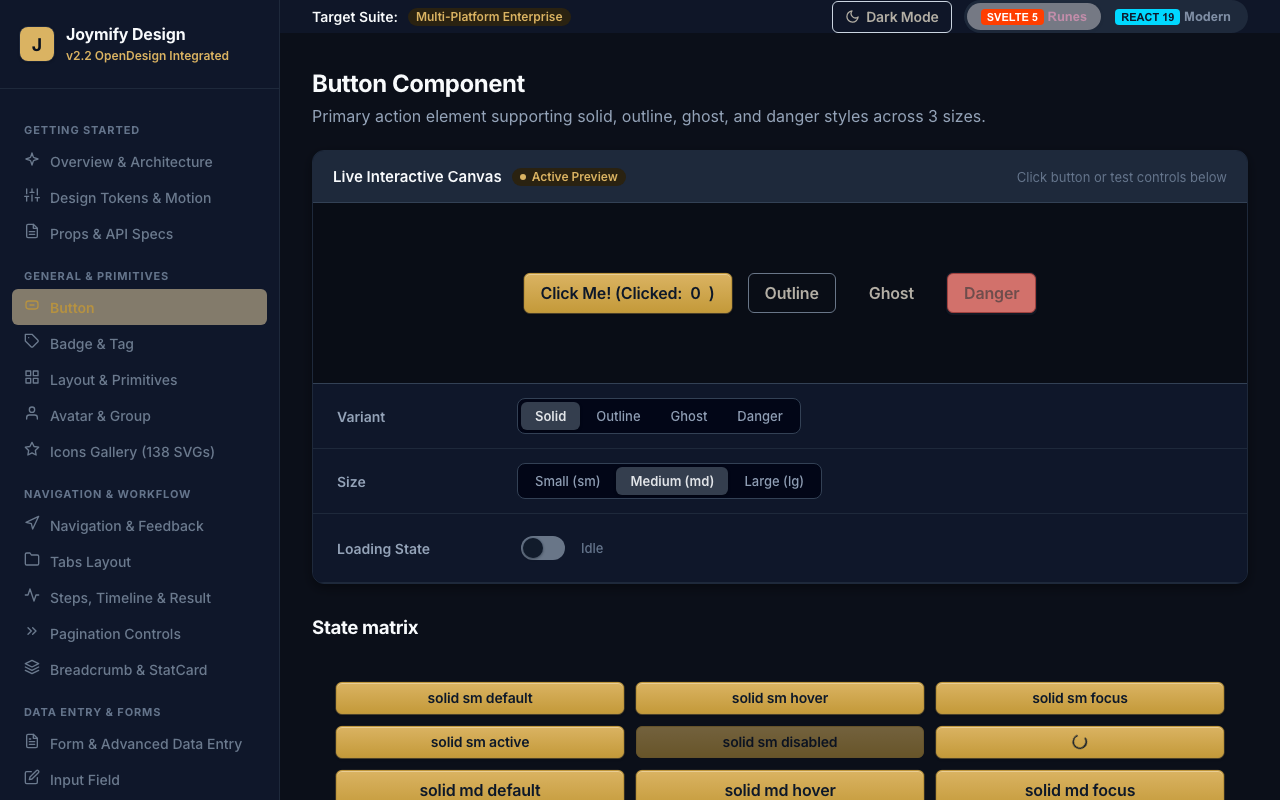
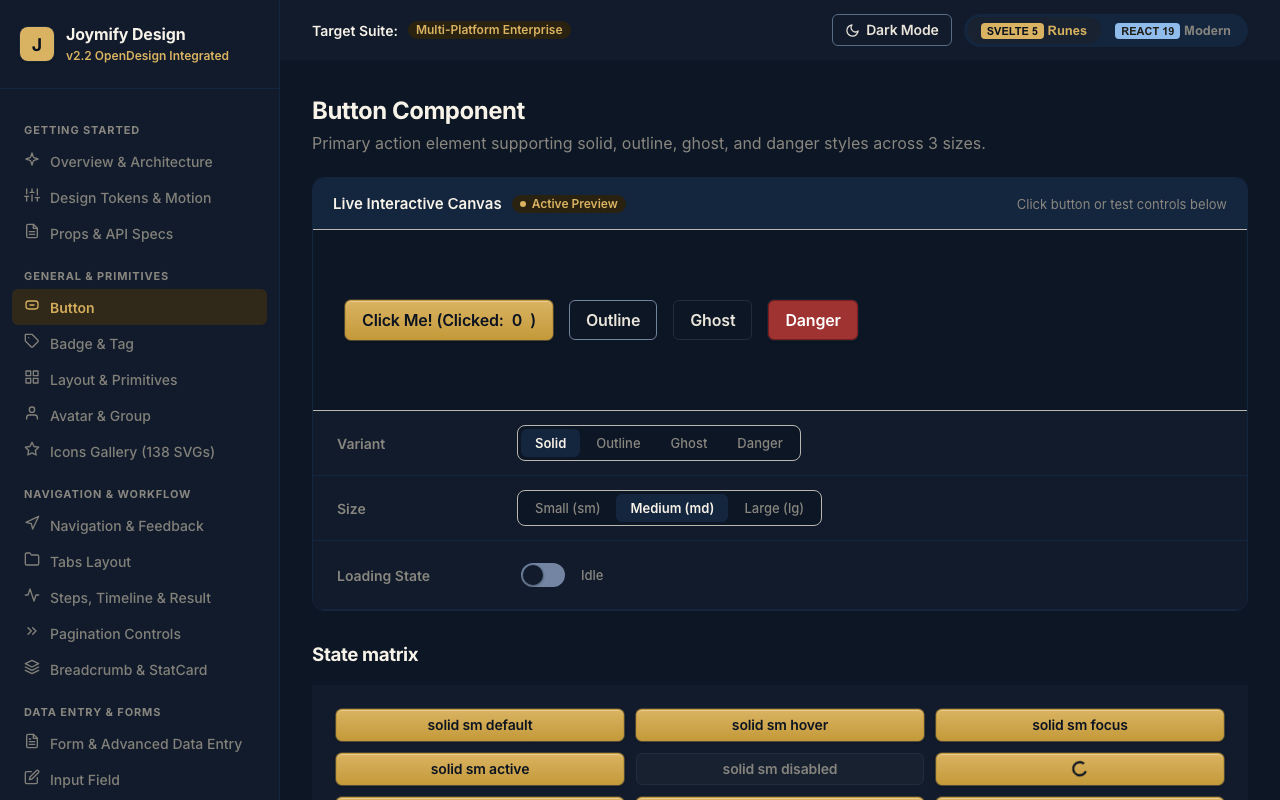
docs(F-037): refresh visual evidence after taste fixes
Screens regenerated at b9ee188; contrast table updated for the deeper
gradient end (text-on-accent over accent-gradient-end 4.75:1, threshold 4.5).

diff --git a/.claude/refined_backlog/F-036-wave-1-semantic-token-foundation-light-d/research/contrast-table-after.md b/.claude/refined_backlog/F-036-wave-1-semantic-token-foundation-light-d/research/contrast-table-after.md
@@ -12,7 +12,7 @@
 | --joy-accent-text (#856515) on --joy-surface-canvas (#f8f3e8) | Light | Accent Text / Surface | 4.90:1 | ≥ 4.5:1 | PASS |
 | --joy-accent-text (#856515) on --joy-surface-card (#ffffff) | Light | Accent Text / Surface | 5.43:1 | ≥ 4.5:1 | PASS |
 | --joy-text-on-accent (#14253e) on --joy-accent-default (#c49a3a) | Light | Text / Surface | 5.89:1 | ≥ 4.5:1 | PASS |
-| --joy-text-on-accent (#14253e) on --joy-accent-gradient-end (#b39042) | Light | Text / Hero Accent | 5.12:1 | ≥ 4.5:1 | PASS |
+| --joy-text-on-accent (#14253e) on --joy-accent-gradient-end (#ad8a3b) | Light | Text / Hero Accent | 4.75:1 | ≥ 4.5:1 | PASS |
 | --joy-border-default (#88867f) on --joy-surface-canvas (#f8f3e8) | Light | Border / Surface | 3.29:1 | ≥ 3:1 | PASS |
 | --joy-border-default (#88867f) on --joy-surface-card (#ffffff) | Light | Border / Surface | 3.64:1 | ≥ 3:1 | PASS |
 | --joy-focus-ring (#856515) on --joy-surface-canvas (#f8f3e8) | Light | Focus Ring | 4.90:1 | ≥ 3:1 | PASS |
@@ -21,9 +21,11 @@
 | --joy-status-success-fg (#1a4f1f) on --joy-surface-canvas (#f8f3e8) | Light | Status Text / Surface | 8.70:1 | ≥ 4.5:1 | PASS |
 | --joy-status-warning-fg (#643600) on --joy-status-warning-bg (#f7eddf) | Light | Status Text / Surface | 8.76:1 | ≥ 4.5:1 | PASS |
 | --joy-status-warning-fg (#643600) on --joy-surface-canvas (#f8f3e8) | Light | Status Text / Surface | 9.17:1 | ≥ 4.5:1 | PASS |
-| --joy-status-danger-fg (#781b1c) on --joy-status-danger-bg (#fee9e6) | Light | Status Text / Surface | 9.13:1 | ≥ 4.5:1 | PASS |
-| --joy-status-danger-bg (#fee9e6) on --joy-status-danger-fg (#781b1c) | Light | Status Surface / Text | 9.13:1 | ≥ 4.5:1 | PASS |
-| --joy-status-danger-fg (#781b1c) on --joy-surface-canvas (#f8f3e8) | Light | Status Text / Surface | 9.62:1 | ≥ 4.5:1 | PASS |
+| --joy-status-danger-fg (#9f3331) on --joy-status-danger-bg (#fee9e6) | Light | Status Text / Surface | 6.02:1 | ≥ 4.5:1 | PASS |
+| --joy-status-danger-bg (#fee9e6) on --joy-status-danger-fg (#9f3331) | Light | Status Surface / Text | 6.02:1 | ≥ 4.5:1 | PASS |
+| --joy-status-danger-fg (#9f3331) on --joy-surface-canvas (#f8f3e8) | Light | Status Text / Surface | 6.34:1 | ≥ 4.5:1 | PASS |
+| --joy-status-danger-solid-fg (#ffffff) on --joy-status-danger-solid-bg (#9f3331) | Light | Danger Solid Button | 7.02:1 | ≥ 4.5:1 | PASS |
+| --joy-text-disabled (#686660) on --joy-surface-disabled (#efe9dc) | Light | Disabled Text / Surface | 4.75:1 | ≥ 4.5:1 | PASS |
 | --joy-status-info-fg (#17446f) on --joy-status-info-bg (#e6f0f9) | Light | Status Text / Surface | 8.69:1 | ≥ 4.5:1 | PASS |
 | --joy-status-info-fg (#17446f) on --joy-surface-canvas (#f8f3e8) | Light | Status Text / Surface | 9.07:1 | ≥ 4.5:1 | PASS |
 | --joy-text-primary (#f8f3e8) on --joy-surface-canvas (#0d1624) | Dark | Text / Surface | 16.40:1 | ≥ 4.5:1 | PASS |
@@ -33,6 +35,7 @@
 | --joy-text-secondary (#bab7b0) on --joy-surface-card (#111b2b) | Dark | Text / Surface | 8.63:1 | ≥ 4.5:1 | PASS |
 | --joy-text-muted (#88867f) on --joy-surface-canvas (#0d1624) | Dark | Text / Surface | 4.98:1 | ≥ 4.5:1 | PASS |
 | --joy-text-muted (#88867f) on --joy-surface-card (#111b2b) | Dark | Text / Surface | 4.74:1 | ≥ 4.5:1 | PASS |
+| --joy-text-disabled (#88867f) on --joy-surface-disabled (#111b2b) | Dark | Disabled Text / Surface | 4.74:1 | ≥ 4.5:1 | PASS |
 | --joy-text-link (#dab362) on --joy-surface-canvas (#0d1624) | Dark | Text / Surface | 9.16:1 | ≥ 4.5:1 | PASS |
 | --joy-text-link (#dab362) on --joy-surface-card (#111b2b) | Dark | Text / Surface | 8.73:1 | ≥ 4.5:1 | PASS |
 | --joy-accent-text (#dab362) on --joy-surface-canvas (#0d1624) | Dark | Accent Text / Surface | 9.16:1 | ≥ 4.5:1 | PASS |
@@ -50,5 +53,6 @@
 | --joy-status-danger-fg (#fb9890) on --joy-status-danger-bg (#2d0606) | Dark | Status Text / Surface | 8.77:1 | ≥ 4.5:1 | PASS |
 | --joy-status-danger-bg (#2d0606) on --joy-status-danger-fg (#fb9890) | Dark | Status Surface / Text | 8.77:1 | ≥ 4.5:1 | PASS |
 | --joy-status-danger-fg (#fb9890) on --joy-surface-canvas (#0d1624) | Dark | Status Text / Surface | 8.64:1 | ≥ 4.5:1 | PASS |
+| --joy-status-danger-solid-fg (#ffffff) on --joy-status-danger-solid-bg (#9f3331) | Dark | Danger Solid Button | 7.02:1 | ≥ 4.5:1 | PASS |
 | --joy-status-info-fg (#8fbceb) on --joy-status-info-bg (#051729) | Dark | Status Text / Surface | 9.10:1 | ≥ 4.5:1 | PASS |
 | --joy-status-info-fg (#8fbceb) on --joy-surface-canvas (#0d1624) | Dark | Status Text / Surface | 9.13:1 | ≥ 4.5:1 | PASS |
